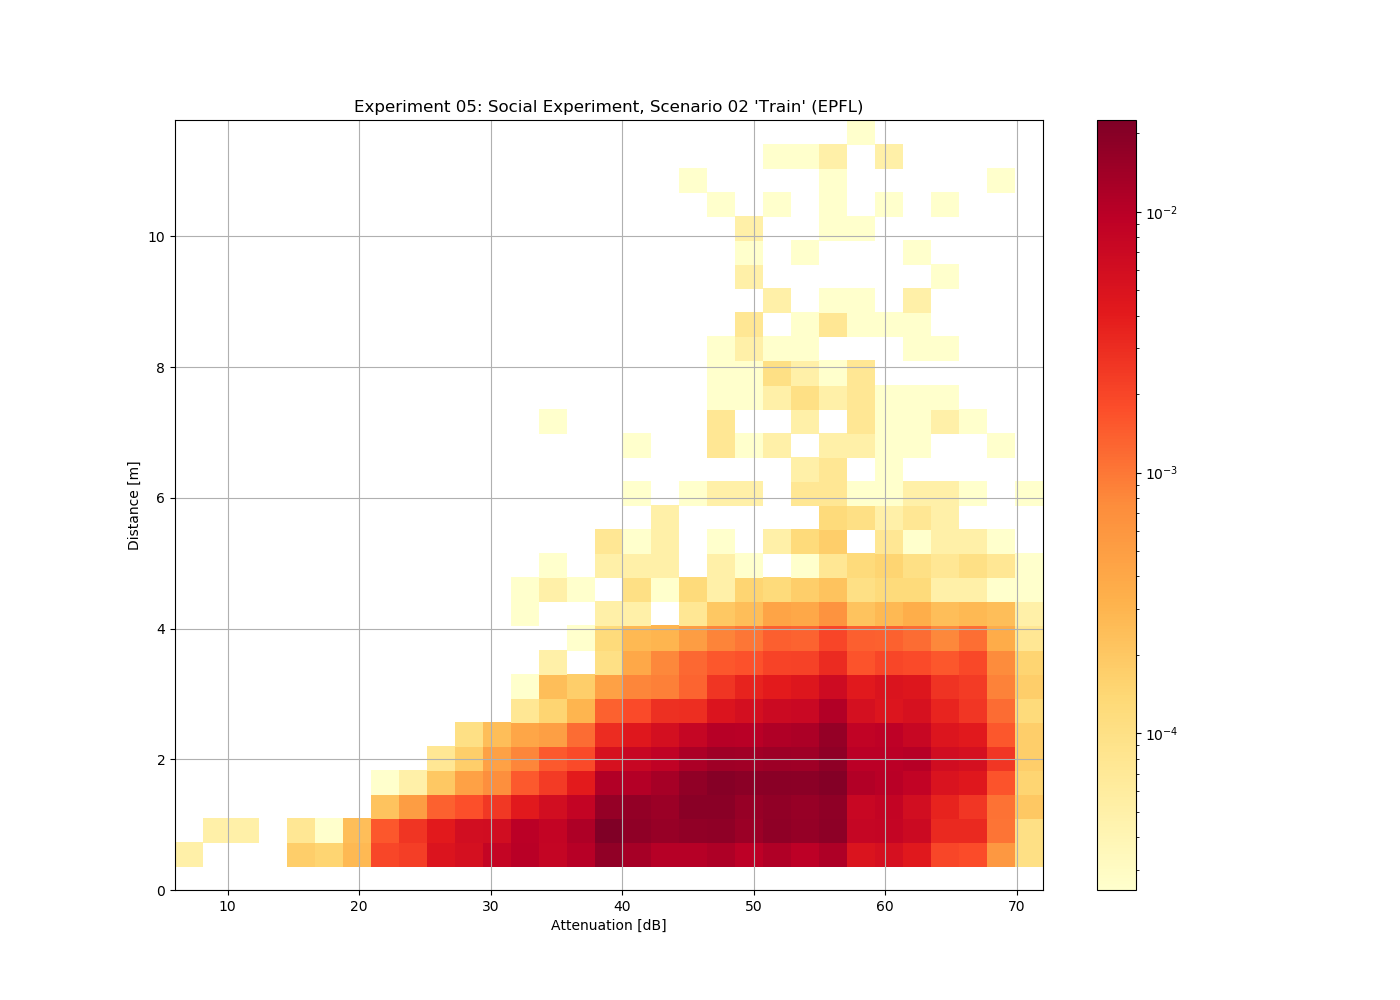
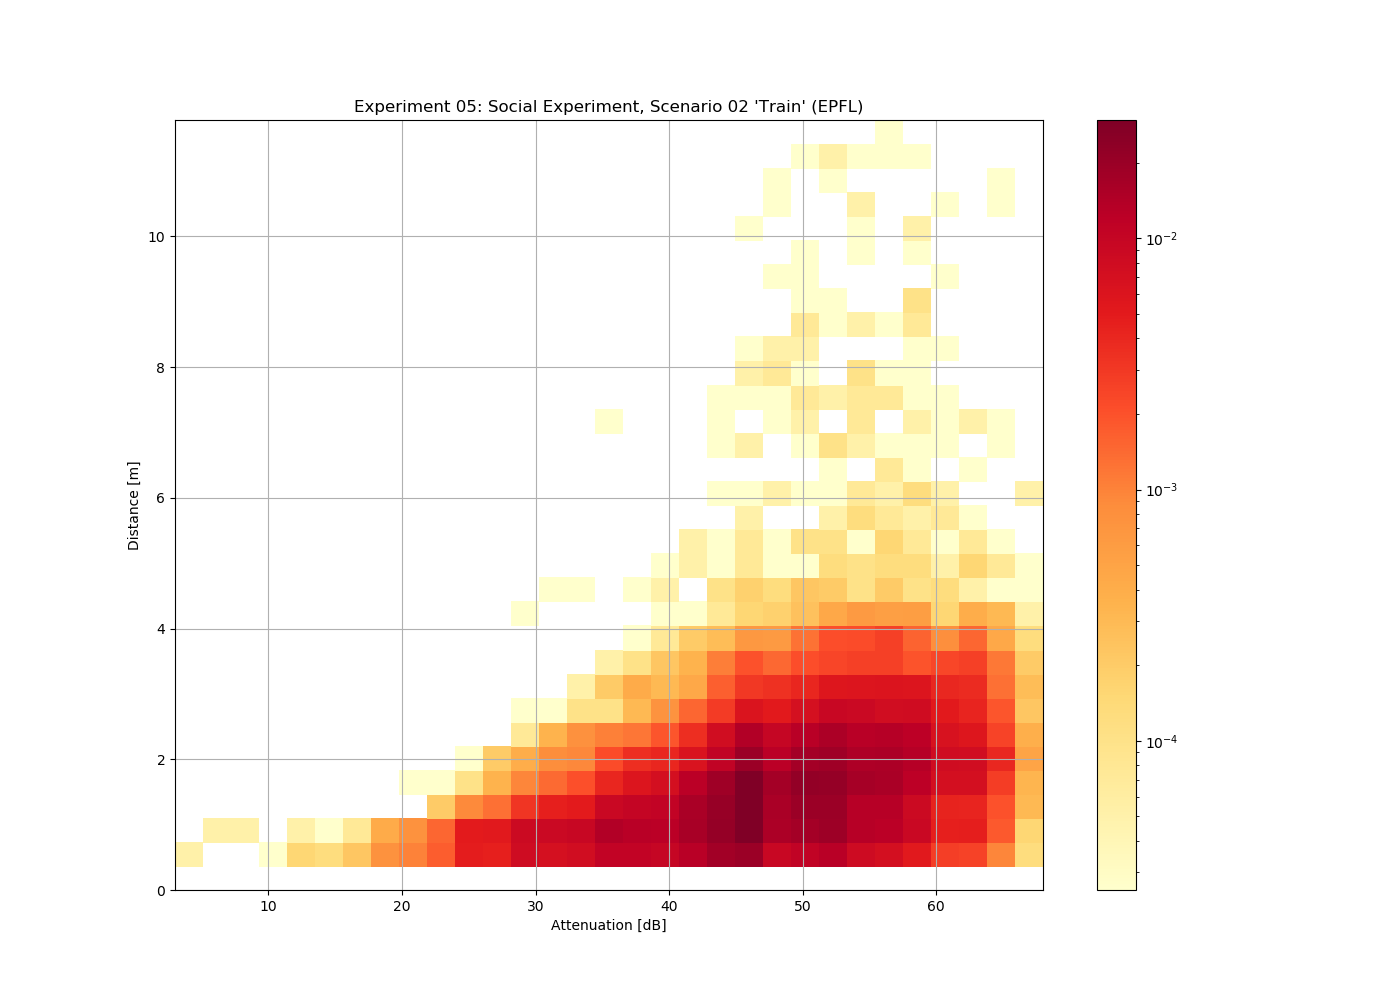
Google released new calibration values, updated measurements and figures accordingly.

diff --git a/process_measurements.py b/process_measurements.py
@@ -28,18 +28,21 @@ def create_precision_recall(exp, image_name, exp_title):
 	data_200613 = []
 	data_200813 = []
 	data_200918 = []
+	data_201214 = []
 	data_our = []
 	for _, dbname in exp:
 		data_200530 += get_attenuations(dbname, compensation=MODEL_RX_TX_COMPENSATION_200530)
 		data_200613 += get_attenuations(dbname, compensation=MODEL_RX_TX_COMPENSATION_200613)
 		data_200813 += get_attenuations(dbname, compensation=MODEL_RX_TX_COMPENSATION_200813)
-		data_200918 += get_attenuations(dbname, compensation=MODEL_RX_TX_COMPENSATION)
+		data_200918 += get_attenuations(dbname, compensation=MODEL_RX_TX_COMPENSATION_200918)
+		data_201214 += get_attenuations(dbname, compensation=MODEL_RX_TX_COMPENSATION)
 		data_our += get_attenuations(dbname, compensation=MODEL_RX_TX_COMPENSATION_OUR)
 
 	#precision_recall(data_200530, 30, 80, title=exp_title+": precision/recall for all scenarios (200530)", filename=image_name.format("200530"))
 	precision_recall(data_200613, 30, 80, title=exp_title+": precision/recall for all scenarios (200613)", filename=image_name.format("200613"))
 	precision_recall(data_200813, 30, 80, title=exp_title+": precision/recall for all scenarios (200813)", filename=image_name.format("200813"))
 	precision_recall(data_200918, 30, 80, title=exp_title+": precision/recall for all scenarios (200918)", filename=image_name.format("200918"))
+	precision_recall(data_201214, 30, 80, title=exp_title+": precision/recall for all scenarios (201214)", filename=image_name.format("201214"))
 	precision_recall(data_our, 30, 80, title=exp_title+": precision/recall for all scenarios (our measurements)", filename=image_name.format("our"))
 	precision_recall_table(data_200918, 30, 80)
 

diff --git a/measurements.py b/measurements.py
@@ -23,7 +23,23 @@ MODEL_RX_TX_COMPENSATION_OUR = {
     'SM-G981B/DS': [3.0, -25.5]
 }
 
-MODEL_RX_TX_COMPENSATION = { # date: 200918
+
+MODEL_RX_TX_COMPENSATION = { # date: 201214
+# Official Google calibration of 20/12/14
+    'iPhone7': [0.0, 3.0],
+    'iPhoneXR': [0.0, 0.0],
+    'iPhoneXS': [0.0, 3.0],
+    'iPhone11': [0.0, 1.0],
+    'iPhone11Pro': [0.0, 3.0],
+    'SM-G973F': [5.0, -24.0],
+    'SM-G970F': [5.0, -24.0],
+    'SM-A405FN': [5.0, -24.0],
+    'SM-A515F': [5.0, -24.0],
+    'SM-A908B': [5.0, -24.0],
+    'SM-G981B/DS': [5.0, -24.0] # SM-G981B in table
+}
+
+MODEL_RX_TX_COMPENSATION_200918 = { # date: 200918
 # Official Google calibration of 20/09/18
     'iPhone7': [0.0, 3.0],
     'iPhoneXR': [0.0, 0.0],
